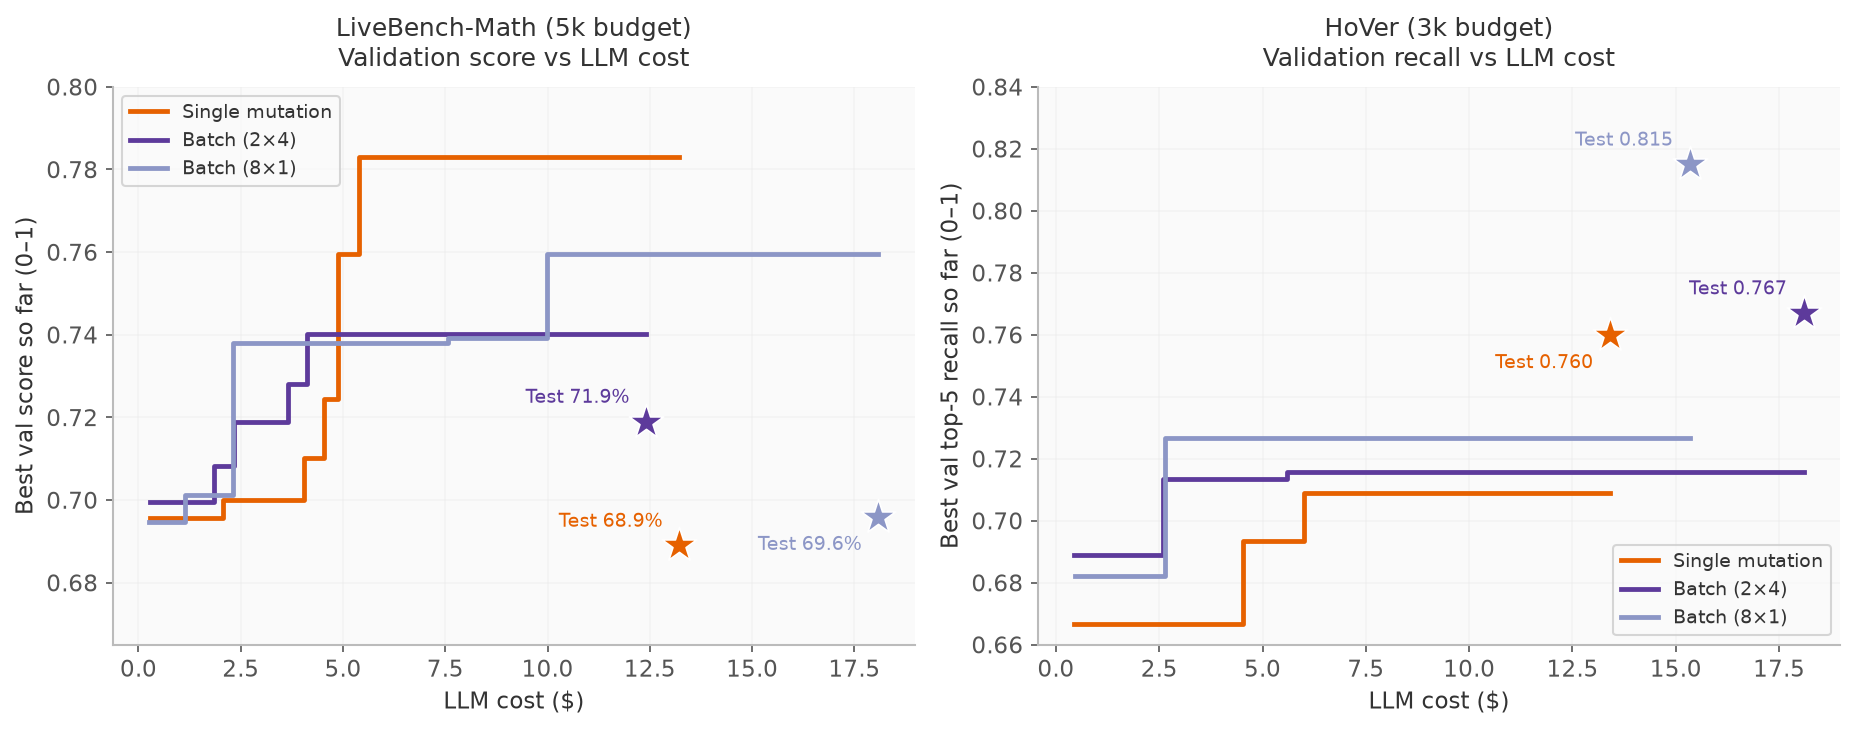
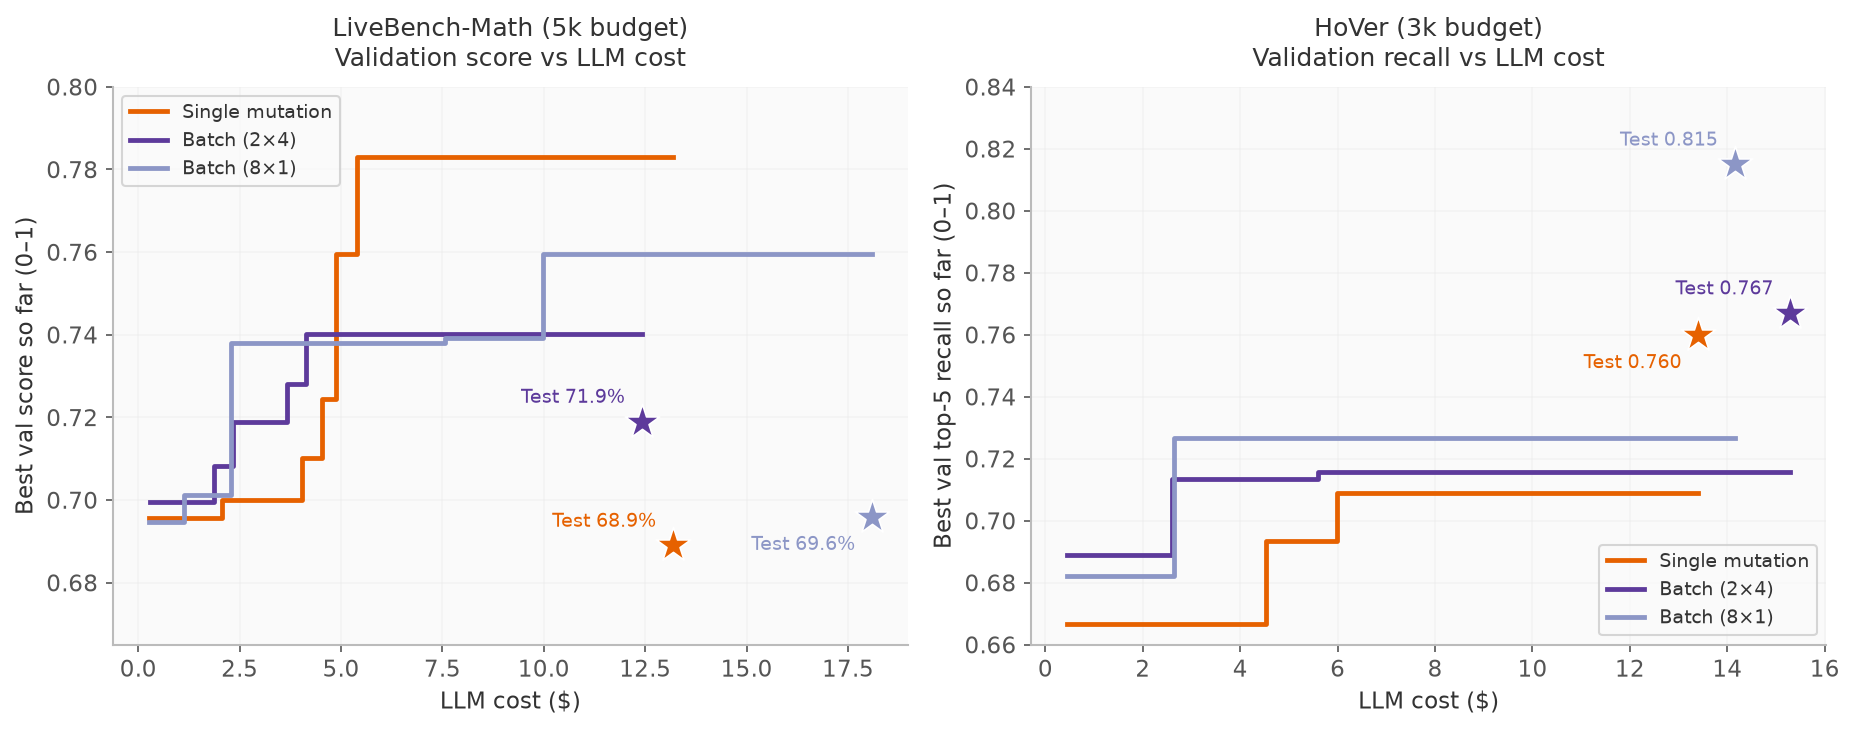
docs(blog): count LLM cost strictly within the metric-call budget, sharpen the P-heavy transfer reference

diff --git a/docs/docs/blog/posts/2026-06-22-parallel-proposals/index.md b/docs/docs/blog/posts/2026-06-22-parallel-proposals/index.md
@@ -99,7 +99,7 @@ We also probed how efficiently each setting spends its budget during the run. He
 
 #### Metric-call Budget
 
-On the held-out test sets, 2×4 won 3.0pp over single mutation on LiveBench-Math, and 8×1 won 11.0pp on HoVer. On LiveBench-Math, single mutation actually scored higher on the validation set, but the batched settings transferred better to the test set. Single mutation dropped nine points from validation to test and 8×1 dropped six, consistent with the P-heavy behavior described above, while 2×4 dropped only two.
+On the held-out test sets, 2×4 won 3.0pp over single mutation on LiveBench-Math, and 8×1 won 11.0pp on HoVer. On LiveBench-Math, single mutation actually scored higher on the validation set, but the batched settings transferred better to the test set. Single mutation dropped nine points from validation to test and 8×1 dropped six, matching the weaker transfer of P-heavy settings described above, while 2×4 dropped only two.
 
 Batched settings dominate small budgets: on LiveBench-Math both batched settings reach validation scores that single mutation needs about 2,000 calls to match, and on HoVer they lead at every budget. Single mutation raises validation scores later in the budget, but scores the lowest on the held-out test set on both tasks.
 
@@ -113,7 +113,7 @@ Batched settings dominate small budgets: on LiveBench-Math both batched settings
 By measuring the total LLM spend (sum of solver calls and reflection calls), we found that batched settings are also more cost-efficient, reaching strong validation scores within the first few dollars. On LiveBench-Math, 8×1 reaches a 0.73 validation score within about $2.5 of spend, and on HoVer it reaches its selected program for $2.65. The total spend varies with how long each run's candidates make the solver's outputs (per-call output tokens order the totals on both tasks), but stays comparable across settings, within the $13 to $18 range.
 
 <figure markdown="span">
-  ![Two Pareto curves of best validation quality against cumulative LLM dollars for single mutation, 2×4, and 8×1. Left, LiveBench-Math: single mutation reaches 0.783 by about $5.5 and ends at $13.2; 2×4 ends at 0.740 for $12.7 and 8×1 at 0.760 for $18.1. Right, HoVer: 8×1 jumps to 0.727 by $2.65 and ends at $15.3; 2×4 ends at 0.716 for $18.1 and single mutation at 0.709 for $13.4. Test stars match Figure 4.](images/pareto_cost.png){ style="width: 100%;" }
+  ![Two Pareto curves of best validation quality against cumulative LLM dollars for single mutation, 2×4, and 8×1. Left, LiveBench-Math: single mutation reaches 0.783 by about $5.5 and ends at $13.2; 2×4 ends at 0.740 for $12.4 and 8×1 at 0.760 for $18.1. Right, HoVer: 8×1 jumps to 0.727 by $2.65 and ends at $14.2; 2×4 ends at 0.716 for $15.3 and single mutation at 0.709 for $13.4. Test stars match Figure 4.](images/pareto_cost.png){ style="width: 100%;" }
   <figcaption>Figure 5. Best validation quality against total LLM spend, solver and reflection calls combined. Batched settings reach strong validation quality within the first few dollars.</figcaption>
 </figure>
 
